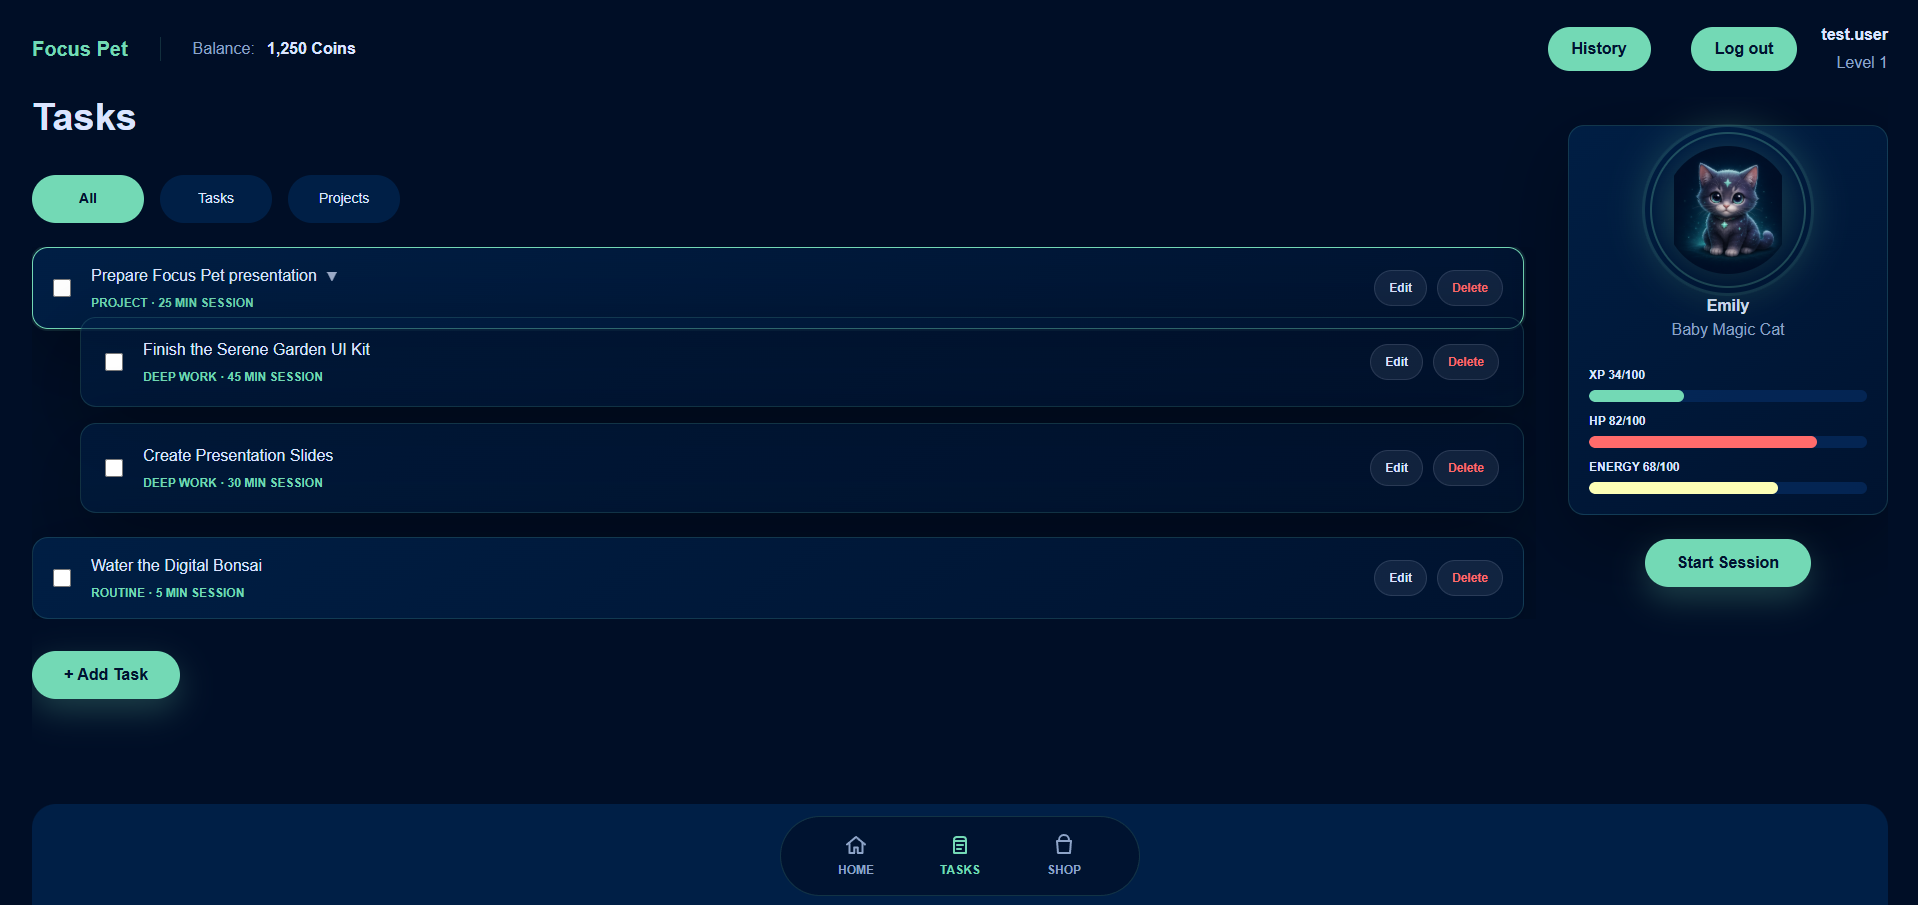
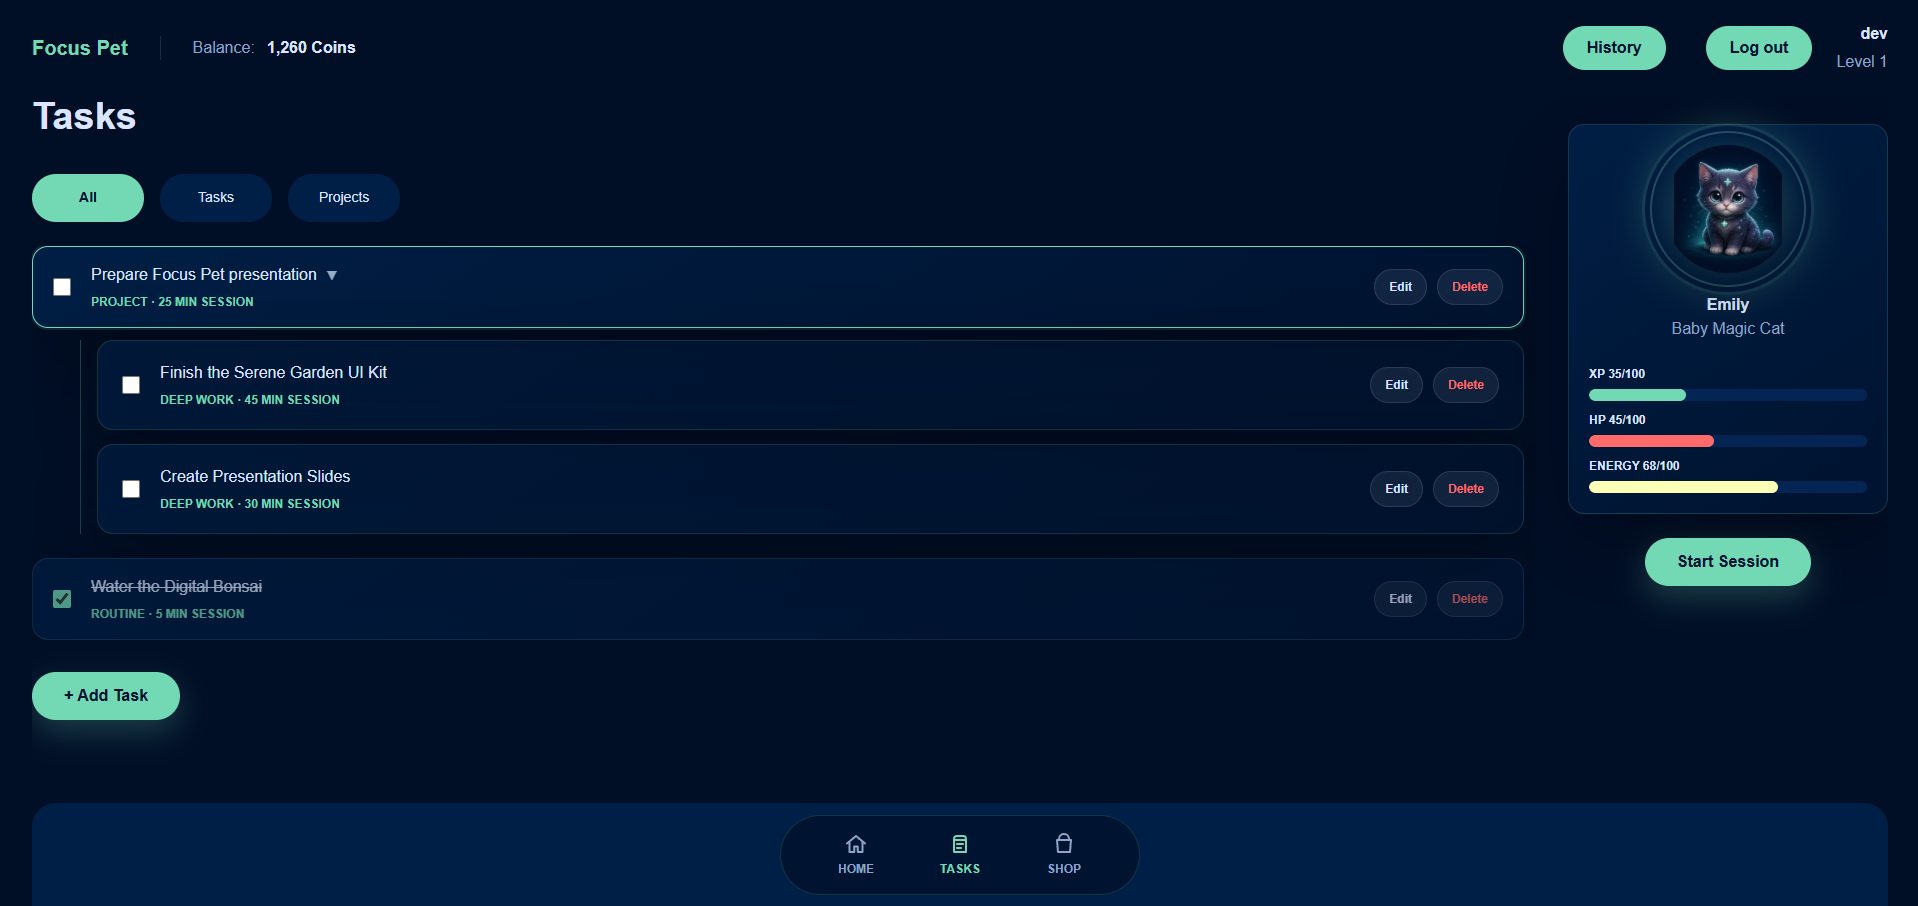
fix: poprawienie odstępów podzadań

diff --git a/focus-pet-app/src/App.css b/focus-pet-app/src/App.css
@@ -771,10 +771,10 @@ select {
 
 .subtask-list {
   display: grid;
-  gap: 16px;
-  margin-left: 48px;
-  margin-top: -12px;
-  margin-bottom: 8px;
+  gap: 14px;
+  margin: 12px 0 8px 48px;
+  padding-left: 16px;
+  border-left: 1px solid rgba(115, 217, 181, 0.28);
 }
 
 .subtask-list .task-card {
